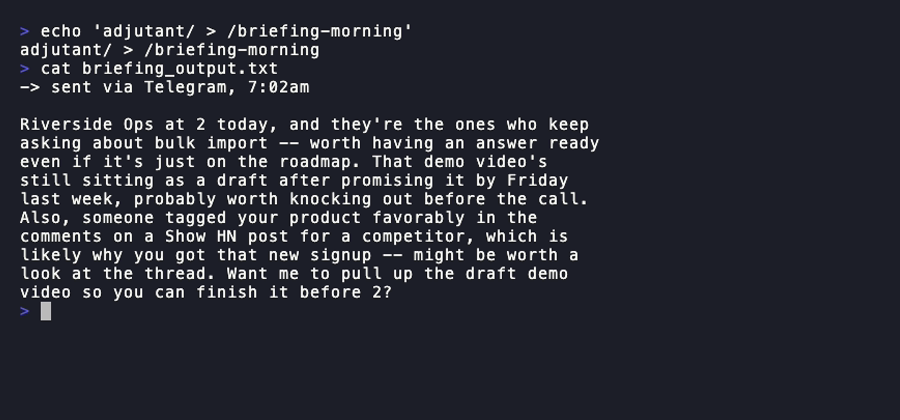
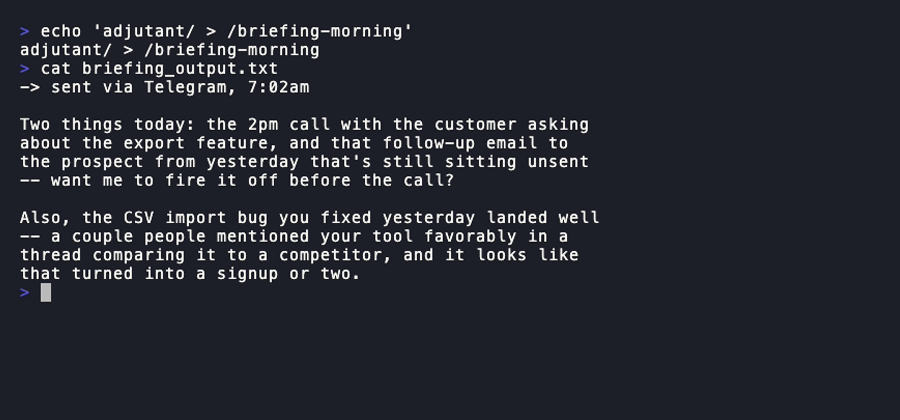
fix: address independent audit findings
An independent fresh-context review caught real issues in the last
commit despite it "looking fine":

- README claimed "sixteen-plus scheduled agents" — the actual shipped
  v1 has seven, per ARCHITECTURE.md/ROADMAP.md/config. Fixed in both
  languages; this was leftover language from the pitch, not the product.
- board-operator.md's memory format ("## Commitment register") diverged
  from the spec every other seat and docs/decision-format.md use
  ("## Session Log" / "## Demands outstanding") — would have broken its
  own "register diff" output on the second board session. Reconciled.
- LICENSE still said "agent-os contributors" post-rename.
- README.md and examples/verticals/vc.md made contradictory claims
  about how much customization board.veteran.domain alone buys you.
  Reconciled.
- README.ko.md was missing a whole section (Specializing this for your
  field) that README.md had, and its license blurb didn't reflect that
  MIT was already chosen. Added parity.
- docs/assets/briefing.png's content (a named "Riverside Ops" client, a
  "demo video" detail that could misread as a self-reference) was
  invented but read as suspiciously specific — regenerated with
  deliberately generic nouns. Image assets are invisible to the
  text-only sanitization grep; documented this gap in
  docs/cookbook/sanitization-checklist.md so it doesn't recur.
- demo.gif's README caption now clarifies it shows in-session console
  output, not the single-file minutes format described in
[…]

Changed region(s): [[0.0, 0.2786, 0.6844, 0.7738]]

diff --git a/README.ko.md b/README.ko.md
@@ -11,7 +11,9 @@
 
 *완전히 지어낸 "Jordan" 시나리오에 대해 보드가 논쟁하는 장면입니다 (실제 누군가의
 결정이 아닙니다 — `docs/ARCHITECTURE.md`의 데모 자산 규칙 참고). 텍스트는 각본이
-아니라 이 저장소의 실제 `os/agents/board-*.md` 프롬프트가 만들어낸 진짜 결과물입니다.*
+아니라 이 저장소의 실제 `os/agents/board-*.md` 프롬프트가 만들어낸 진짜
+결과물입니다 — 여기 보이는 건 세션 중 화면 출력이고, 실제로 함께 생성되는
+minutes 파일은 `docs/decision-format.md`의 단일 파일 포맷을 따릅니다.*
 
 ![Telegram으로 전달된 아침 브리핑 — 실제 모델 출력, 가상의 시나리오](docs/assets/briefing.png)
 
@@ -21,7 +23,7 @@
 
 ## 이게 뭔가
 
-16개 이상의 스케줄 에이전트, 당신의 미해결 결정에 대해 논쟁하고 지난번에
+7개의 스케줄 에이전트, 당신의 미해결 결정에 대해 논쟁하고 지난번에
 뭐라고 했는지 기억하는 3인 어드버서리얼 보드(Adversarial Board), 같은 결정을
 영원히 재분석하지 못하게 막는 결단 원장(Decision Ledger), 그리고 이 모든 걸
 유지보수 가능하게 만드는 바벨 파이프라인(저렴한 모델이 정찰 → 최고 모델이
@@ -81,7 +83,17 @@ git clone <this-repo> adjutant && cd adjutant
   당신 것이니까요. 기여하고 싶다면 `ROADMAP.md`와 `CONTRIBUTING.md`를
   확인하세요.
 
+## 이 저장소를 당신의 분야에 맞게 바꾸기
+
+`examples/verticals/`에 보드와 원장을 특정 도메인에 맞게 재조정한 예시가
+하나 있습니다 (현재: 벤처캐피털 — `vc.md`). 더 많은 버티컬 예시는 PR로
+환영합니다 — `CONTRIBUTING.md` 참고. 보드의 베테랑 좌석이 커스터마이징하기
+가장 좋은 부분입니다 — 설정의 `board.veteran.domain` 필드 하나만 바꿔도
+대부분의 효과를 얻습니다 (필드 하나로 얼마나 달라지는지는 `vc.md` 참고).
+그 이상 — 단순히 다른 관점이 아니라 완전히 다른 목소리 — 를 원한다면
+`os/agents/board-veteran.md`의 페르소나 노트를 직접 다시 쓰세요.
+
 ## 라이선스
 
-`LICENSE` 참고. (공개 전에 하나 정하세요 — 자유롭게 포크되길 바라는
-저장소라면 MIT/Apache-2.0이 관례적인 기본값입니다.)
+MIT — `LICENSE` 참고. (임시 선택입니다; 다른 라이선스를 원하면 공개 전에
+바꾸세요. 예: 명시적 특허 조항이 필요하면 Apache-2.0.)

diff --git a/README.md b/README.md
@@ -12,7 +12,9 @@ Not a framework. Fork it, configure it, make it yours.*
 *The board arguing about a fictional decision (a fabricated "Jordan" scenario,
 not anyone's real deliberation — see the demo-asset rule in
 `docs/ARCHITECTURE.md`). The text is genuine output from the actual
-`os/agents/board-*.md` prompts in this repo, not scripted copy.*
+`os/agents/board-*.md` prompts in this repo, not scripted copy — shown here
+as it appears in-session; the actual minutes file it also produces follows
+the single-file format in `docs/decision-format.md`.*
 
 ![A morning briefing delivered via Telegram — real model output, fictional scenario](docs/assets/briefing.png)
 
@@ -22,7 +24,7 @@ one short message, not a dashboard.*
 
 ## What this is
 
-Sixteen-plus scheduled agents, an adversarial three-seat board that argues
+Seven scheduled agents, an adversarial three-seat board that argues
 about your open decisions and remembers what it told you last time, a
 Decision Ledger that refuses to let you re-analyze the same choice forever,
 and the barbell pipeline (cheap scout → your best model plans → cheap build →
@@ -88,9 +90,11 @@ See `docs/ARCHITECTURE.md` for the full extraction rationale and
 `examples/verticals/` has a worked example of retuning the board and ledger
 for a specific domain (currently: venture capital — `vc.md`). More verticals
 are welcome via PR; see `CONTRIBUTING.md`. The board's veteran seat is the
-one piece most worth customizing — `board.veteran.domain` in your config is
-a start, but a truly sharp veteran usually needs a rewritten persona note in
-`os/agents/board-veteran.md`, not just a filled-in field.
+one piece most worth customizing — `board.veteran.domain` in your config
+gets you most of the way there (see `vc.md` for how far a single field goes).
+If you want more than that — a distinct voice, not just a distinct frame of
+reference — rewrite the persona note directly in
+`os/agents/board-veteran.md`.
 
 ## License
 

diff --git a/os/agents/board-operator.md b/os/agents/board-operator.md
@@ -28,9 +28,12 @@ Tone: short. Tables over paragraphs.
 ## Procedure
 
 1. **Read your memory first.** Local backend:
-   `{config.decisions.board_minutes_path}/_memory/operator.md` (create with a
-   `## Commitment register` heading — commitment / deadline / last-checked
-   status — if new). Nessie backend: the context ID passed in your prompt.
+   `{config.decisions.board_minutes_path}/_memory/operator.md` — same format
+   as the other two seats (create with `## Session Log` and `## Demands
+   outstanding` headings if new; see `docs/decision-format.md`). Your
+   register is the `## Demands outstanding` list: each entry is a commitment
+   with its deadline and current status. Nessie backend: the context ID
+   passed in your prompt.
 2. **Read the current source of truth** (the register can go stale; the
    primary record wins): the Decision Log entries in
    `{config.decisions.ledger_path}` — new entries are new commitments or
@@ -49,9 +52,9 @@ Tone: short. Tables over paragraphs.
 1. **Sharpest challenge** — the oldest or most load-bearing unmet commitment,
    stated head-on: "You said [X] by [date] (source: [ref]). Today is [D+n].
    Show me."
-2. **What's changed since the last board** — register diff: done ✅ / not
-   done ❌ / not yet due ⏳. If the table is long, show only ❌. First board:
-   lay out the register's starting state.
+2. **What's changed since the last board** — diff against `## Demands
+   outstanding`: done ✅ / not done ❌ / not yet due ⏳. If the table is long,
+   show only ❌. First board: lay out the starting state.
 3. **One demand + a date** — a single deliverable due before the next board.
    If there's already an overdue commitment, don't accept a new one in its
    place — re-issue the old one first.

diff --git a/docs/cookbook/sanitization-checklist.md b/docs/cookbook/sanitization-checklist.md
@@ -16,3 +16,25 @@ grow; a static checklist from launch day will miss whatever leaks next.
 Any match is a blocking failure, not a warning — false positives are cheap to
 dismiss in review; a leaked identifier in a public repo is not reversible by
 force-pushing over it (assume it's cached/forked the moment it's pushed).
+
+## Images and other binary assets are NOT covered by the grep above
+
+`docs/assets/*.gif`, `*.png`, and anything else binary is invisible to a
+text-only grep sweep — a screenshot or demo GIF can bake in a real name, a
+real client, a real number, or a real conversation with nothing in the diff
+to catch it. This is a real gap, found the hard way (a first attempt at a
+demo screenshot for this repo read as too specific — a named client, a
+detail that could pass for real business context — despite being entirely
+invented). For any new image asset:
+
+- Prefer generating its content from a script or a checked-in `.txt`/`.md`
+  source file (so the text itself IS greppable) over hand-typing content
+  directly into a screenshot tool.
+- Before committing, read the actual rendered content yourself — extract
+  GIF frames (`ffmpeg -i file.gif -vf "select='not(mod(n\,N))'" -vsync 0
+  out_%03d.png`) and view them; don't stop at confirming the file is a valid
+  image.
+- Deliberately keep any names/numbers/details in demo content generic enough
+  that a stranger's first reaction isn't "wait, is this real?" — that
+  reaction is the failure mode, independent of whether the content is
+  technically fictional.
